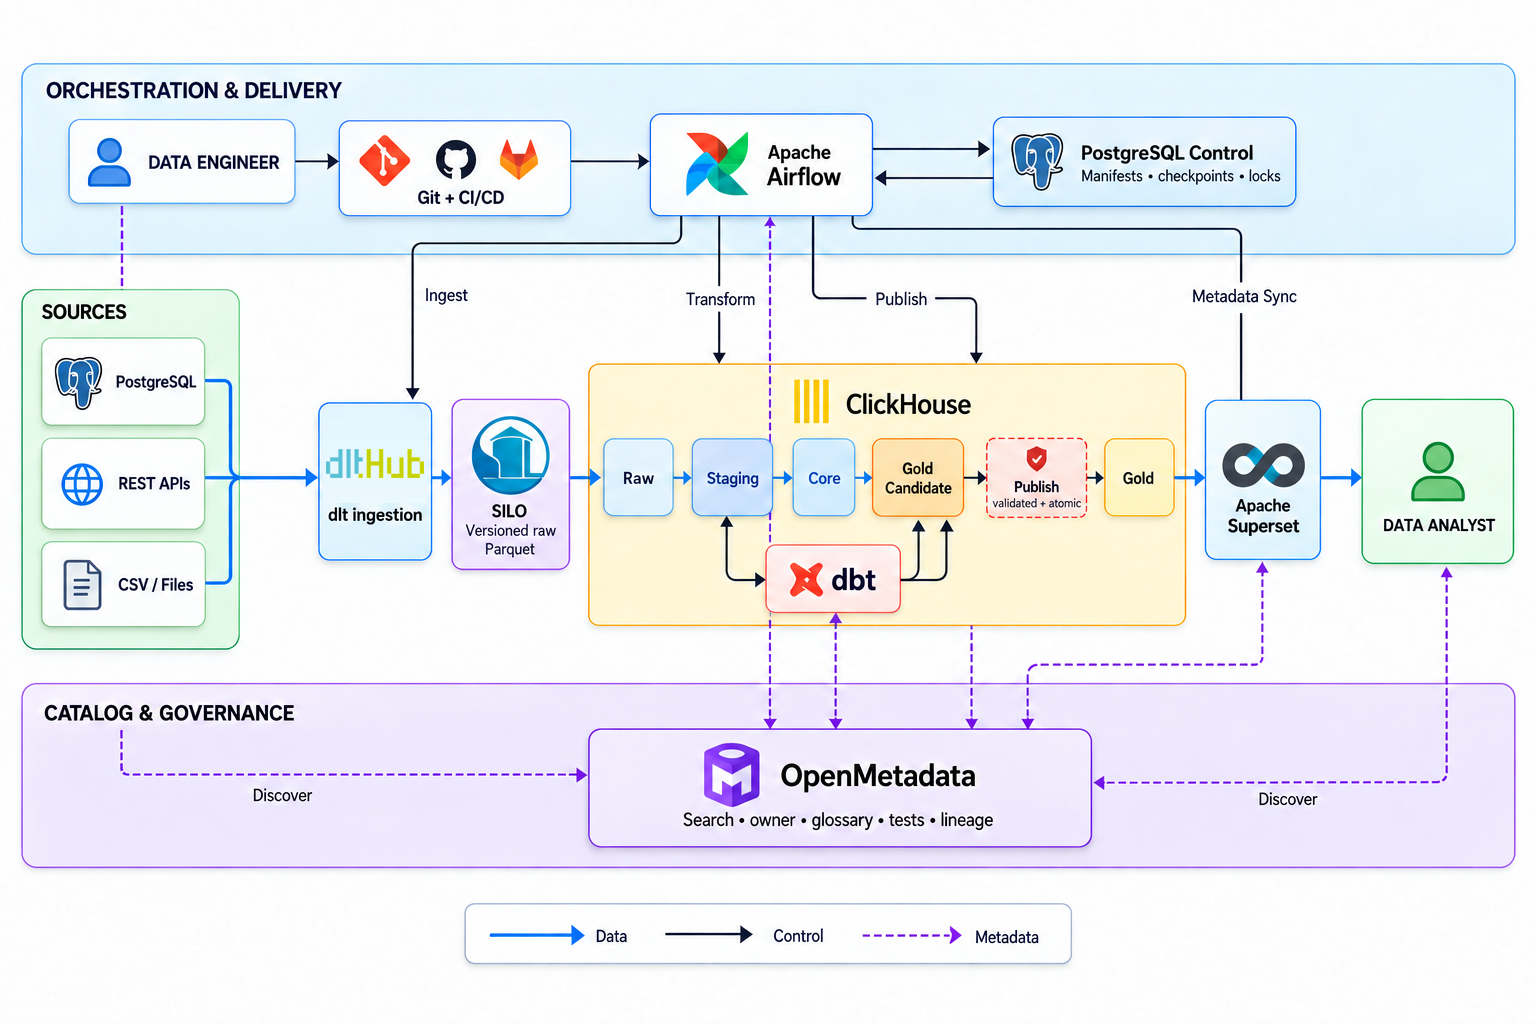
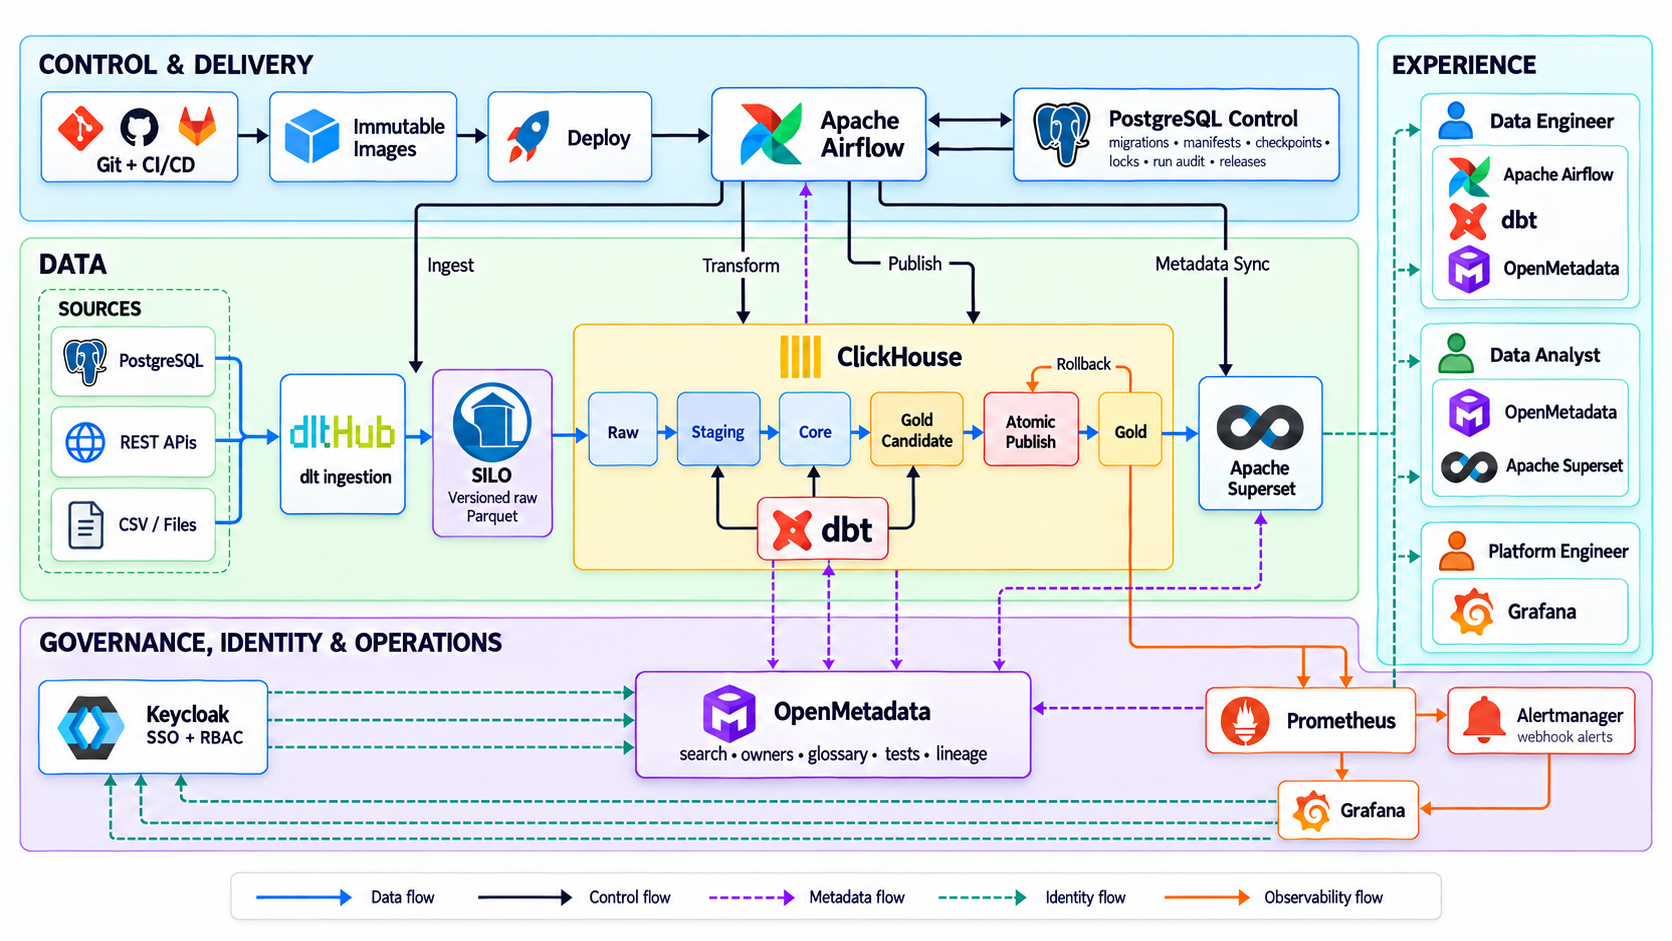
docs: refresh platform architecture and operator guide

diff --git a/README.md b/README.md
@@ -1,44 +1,231 @@
 # Kest
 
-Kest is a compact OSS data platform for a small data team. Data engineers add
-sources and dbt models; analysts discover governed Gold datasets and build
-reports without touching infrastructure. Airflow operates the data path,
-OpenMetadata carries context and lineage, and Superset is the analyst surface.
+Kest is a compact, production-disciplined OSS data platform for a small data
+team. It gives data engineers one governed path from source to Gold, gives data
+analysts searchable datasets and a BI workspace, and gives platform operators a
+single identity, release and observability plane.
 
-![Data platform architecture](assets/platform-architecture.png)
+It is designed for a dedicated Docker Compose host. It is not a claim of
+multi-host HA or unlimited scale.
+
+![Kest platform architecture](assets/platform-architecture.png)
+
+## What users actually do
+
+| Role | Primary surfaces | Normal workflow |
+| --- | --- | --- |
+| Data engineer | Airflow, dbt, OpenMetadata | Add a source, develop in an isolated `dev_<name>` database, open a PR, then inspect scheduled runs and lineage |
+| Data analyst | OpenMetadata, Superset | Find the owner and definition of a Gold dataset, explore canonical columns, then build or consume a dashboard |
+| Platform engineer | Keycloak, Grafana, Airflow | Manage roles, watch freshness and release SLOs, investigate failed runs, migrate, back up or roll back |
+
+DEs and DAs do not assemble connectors or copy credentials between tools. One
+Keycloak identity maps platform roles into Airflow, Superset, OpenMetadata and
+Grafana. Database permissions remain the enforcement boundary underneath the
+UIs.
+
+## Platform model
+
+### Data plane
+
+1. dlt extracts PostgreSQL, REST and file sources into immutable, versioned
+   Parquet batches in SILO.
+2. PostgreSQL Control records batch objects, checksums, watermarks and source
+   checkpoints. A checkpoint advances only after its batch is durable.
+3. The loader verifies the manifest and loads ClickHouse idempotently using the
+   batch ID as the deduplication token.
+4. dbt builds staging, core and mart models. Developer builds are isolated in
+   `dev_<developer>`; production builds target Gold candidates.
+5. Publishing validates a candidate and atomically exchanges one mart at a
+   time into Gold. Publication state, release identity and rollback history are
+   durable control-plane records.
+
+### Control plane
+
+- Apache Airflow runs ingestion, transformation, publishing, bounded backfills
+  and metadata synchronization.
+- PostgreSQL Control owns versioned migrations, manifests, checkpoints,
+  advisory locks, pipeline/run correlation, publication state and release
+  audit.
+- Keycloak supplies SSO and the `platform-admin`, `data-engineer` and
+  `data-analyst` roles.
+- Prometheus collects service and platform-state metrics. Alertmanager groups
+  actionable alerts and optionally relays them to
+  `PLATFORM_ALERT_WEBHOOK_URL`. Grafana is the operator console.
+- OpenMetadata ingests ClickHouse, dbt, Airflow and Superset metadata so owners,
+  glossary terms, tests, dashboards and supported lineage are searchable.
+
+### Experience layer
+
+- Airflow is the DE execution surface; source and publish mechanics remain in
+  reusable platform code.
+- OpenMetadata is the common discovery surface for DE and DA.
+- Superset is the DA workspace and reads Gold with a read-only ClickHouse
+  identity. Business definitions stay in dbt rather than being reimplemented
+  in individual charts.
+- Grafana shows service health, stuck batches and runs, source and dataset
+  freshness, release state, backup verification age, Gold row counts and host
+  capacity.
+
+## Start locally
+
+Requirements: Linux, Docker Engine with Compose v2, GNU Make and Python 3.12.
+Allow roughly 12 CPU, 16 GiB RAM and 60 GiB free disk when every optional
+profile is enabled.
 
 ```bash
-make up                    # core: Airflow, ClickHouse, SILO, Superset
-make credentials           # URLs and local logins
-make catalog               # full OpenMetadata UI, lineage and metadata sync
-make observability-up      # SLO dashboards, metrics and actionable alerts
-make de DEVELOPER=alice    # isolated dev_alice database and dbt build
-make da                    # Superset entry point for analysts
+make up                    # core data platform and SSO
+make credentials           # local URLs and generated local-only logins
+make catalog               # OpenMetadata UI plus metadata synchronization
+make observability-up      # Prometheus, Alertmanager and Grafana
 ```
 
-The ecommerce data is only an acceptance fixture. `make demo` loads it; normal
-startup does not create or schedule demo workload.
+`make up` generates `.env` and runtime policy files with restrictive local
+permissions, applies checksum-protected migrations, reconciles Keycloak
+clients, and performs idempotent service bootstrap. It does not seed demo data
+or run a business pipeline.
 
-## Local product surfaces
+The ecommerce workload is only an acceptance fixture. Run `make demo` when you
+explicitly want it; normal platform startup remains empty.
 
-| Product | Local URL | Primary audience | Daily use |
+## Product surfaces
+
+All development ports bind to `127.0.0.1`.
+
+| Product | Local URL | Primary audience | Purpose |
 | --- | --- | --- | --- |
-| Apache Airflow | [http://127.0.0.1:8080](http://127.0.0.1:8080) | DE | Run, schedule and inspect data pipelines |
-| Apache Superset | [http://127.0.0.1:8088](http://127.0.0.1:8088) | DA | Explore governed data and publish dashboards |
-| SILO Console | [http://127.0.0.1:9001](http://127.0.0.1:9001) | DE / platform | Inspect raw objects and buckets |
-| ClickHouse Diagnostics | [http://127.0.0.1:8123/dashboard](http://127.0.0.1:8123/dashboard) | DE / platform | Inspect server health and query activity |
-| OpenMetadata | [http://127.0.0.1:8585](http://127.0.0.1:8585) | DE / DA | Find datasets, owners, tests and lineage |
-| Kest SSO | [http://127.0.0.1:8180](http://127.0.0.1:8180) | Platform | Manage identities and platform roles |
-| Grafana | [http://127.0.0.1:3000](http://127.0.0.1:3000) | Platform / DE | Operate SLOs, freshness, releases and capacity |
-| Prometheus | [http://127.0.0.1:9090](http://127.0.0.1:9090) | Platform | Inspect metrics and alert rules |
-| Alertmanager | [http://127.0.0.1:9093](http://127.0.0.1:9093) | Platform | Inspect, group and silence actionable alerts |
+| Apache Airflow | [http://127.0.0.1:8080](http://127.0.0.1:8080) | DE / platform | Schedule and inspect pipelines, backfills and metadata sync |
+| Apache Superset | [http://127.0.0.1:8088](http://127.0.0.1:8088) | DA | Explore governed Gold data and publish dashboards |
+| OpenMetadata | [http://127.0.0.1:8585](http://127.0.0.1:8585) | DE / DA | Search datasets, owners, tests, glossary and lineage |
+| Grafana | [http://127.0.0.1:3000](http://127.0.0.1:3000) | Platform / DE | Operate SLOs, releases, freshness and capacity |
+| Kest SSO | [http://127.0.0.1:8180](http://127.0.0.1:8180) | Platform | Manage local identities, sessions and platform roles |
+| SILO Console | [http://127.0.0.1:9001](http://127.0.0.1:9001) | DE / platform | Inspect raw buckets and object versions |
+| ClickHouse Diagnostics | [http://127.0.0.1:8123/dashboard](http://127.0.0.1:8123/dashboard) | DE / platform | Inspect database health and query activity |
+| Prometheus | [http://127.0.0.1:9090](http://127.0.0.1:9090) | Platform | Query metrics and inspect alert rules |
+| Alertmanager | [http://127.0.0.1:9093](http://127.0.0.1:9093) | Platform | Group, route and silence alerts |
 
-Run `make credentials` to print the local-only usernames and passwords.
-Grafana, Prometheus and Alertmanager are enabled by `make observability-up` and
-by immutable staging/production deployments. Production deployment also starts
-the complete OpenMetadata catalog profile.
+Run `make credentials` for the local usernames and passwords. Do not expose
+these loopback services directly to a public network.
 
-The supplied deployment is production-disciplined but single-host. It provides
-strong database roles, isolated DE databases, immutable versioned raw data,
-tested Gold publishing and repeatable recovery; it does not claim HA or
-host-loss disaster recovery.
+## Data engineer workflow
+
+Create an isolated ClickHouse development database and build the dbt project:
+
+```bash
+make de DEVELOPER=alice
+```
+
+Scaffold a REST source without inventing a new configuration language:
+
+```bash
+make source-new \
+  SOURCE=crm \
+  BASE_URL=https://crm.internal/api \
+  ENDPOINT=customers \
+  TABLE=customers \
+  PRIMARY_KEY=id
+```
+
+Then:
+
+1. Configure the generated YAML with the native dlt REST options and store
+   credentials outside Git.
+2. Add staging/core/mart SQL and contracts under `transformations/models/`.
+3. Iterate with `make dbt-build DEVELOPER=alice`.
+4. Open a PR. CI validates Compose, lint/type checks, starts the core platform,
+   runs the acceptance path and checks Airflow DAG imports.
+5. After promotion, use Airflow for normal runs. Use the
+   `controlled_backfill` DAG with `source`, `start`, `end`, `reason` and
+   `dry_run` for bounded recovery work.
+
+Production writes are deliberately split: the pipeline identity may build raw,
+staging and candidates, while the publish identity alone can exchange Gold.
+
+## Data analyst workflow
+
+```bash
+make da
+```
+
+1. Sign in through Kest SSO.
+2. Start in OpenMetadata to find the dataset description, owner, grain,
+   freshness expectation, tests and lineage.
+3. Open the governed dataset in Superset and use its canonical dimensions and
+   measures.
+4. Report definition or freshness issues to the listed owner; do not repair
+   production data with ad-hoc writes. The analyst database role can `SELECT`
+   Gold but cannot `INSERT`, `ALTER` or `DROP` it.
+
+## Environments and delivery
+
+| Environment | Data/build target | Delivery model | Intended use |
+| --- | --- | --- | --- |
+| Local DE | `dev_<developer>` | Compose build plus read-only source checkout mounts | Fast isolated development |
+| Staging | Gold candidate and staging Gold | Images tagged with the exact Git SHA | Migration, integration and release verification |
+| Production | Gold | Promote the same immutable SHA-tagged images | Scheduled ingestion, governed publish and BI |
+
+Pushing `main` builds Airflow, tooling and Superset images with an OCI revision
+label, SBOM and provenance. The protected deployment workflow materializes a
+`0600` environment file on a self-hosted runner and promotes a selected full
+Git SHA. Deployment rejects mutable image tags, mismatched environment files,
+missing secrets and executable checkout mounts, then applies migrations before
+starting services. OpenMetadata and observability are enabled in staging and
+production deployments.
+
+The expected CI/CD controls outside this repository are:
+
+- protected `main` with required CI and CODEOWNERS review;
+- protected `staging` and `production` GitHub Environments;
+- `KEST_ENV_FILE` supplied by the environment secret store;
+- an explicit approval before the production deployment job;
+- off-host retention for backups and registry artifacts.
+
+## Operations
+
+| Command | Effect |
+| --- | --- |
+| `make health` | Check PostgreSQL, ClickHouse, S3-compatible storage and platform invariants |
+| `make migrate` | Apply versioned, checksum-protected PostgreSQL and ClickHouse migrations |
+| `make catalog-sync` | Refresh OpenMetadata entities, ownership, tests, dashboards and lineage |
+| `make backup` | Back up control metadata, ClickHouse data and raw objects |
+| `make restore-test` | Restore into isolated targets and verify counts/checksums |
+| `make rollback DATASET=... PUBLICATION_ID=... REASON=...` | Produce a no-change rollback plan |
+| `make rollback DATASET=... PUBLICATION_ID=... REASON=... EXECUTE=1` | Execute and audit the selected mart rollback |
+| `make observability-down` | Stop only the optional monitoring profile |
+| `make catalog-down` | Stop only the optional catalog profile |
+| `make down` | Stop all profiles while retaining persistent volumes |
+
+Run `make help` for the complete command list. Production promotion uses
+`make deploy ENV=staging` or `make deploy ENV=production` with the matching
+protected environment file.
+
+## Repository map
+
+```text
+ingestion/         dlt sources, raw manifests, loader and workflow code
+orchestration/     Airflow DAG definitions and shared task policy
+transformations/   dbt staging, core, marts, contracts and tests
+governance/        OpenMetadata ingestion and ownership configuration
+serving/           idempotent Superset datasets and dashboard bootstrap
+infra/             service config, images, migrations, identity and monitoring
+ops/               Python bootstrap, deployment, backup, recovery and sync tools
+assets/            README architecture artwork
+```
+
+## Production boundaries
+
+Kest provides least-privilege service identities, SSO, immutable release
+promotion, idempotent ingestion, audited per-mart publishing, rollback records,
+monitoring and executable backup/restore workflows. Its default topology is
+still one host, one ClickHouse node, one PostgreSQL server and one SILO node.
+
+Therefore:
+
+- there is no host-loss HA or automatic cross-region disaster recovery;
+- the default backup location must be copied off-host for real recovery;
+- raw immutability is an application and access-control invariant, not
+  regulatory WORM storage;
+- atomicity is per mart, not across every Gold mart in one global transaction;
+- local loopback bindings are a development boundary, not a substitute for a
+  production reverse proxy, TLS and network policy;
+- scaling beyond one large ClickHouse node requires a replicated/distributed
+  ClickHouse design and a separately tested migration plan.
